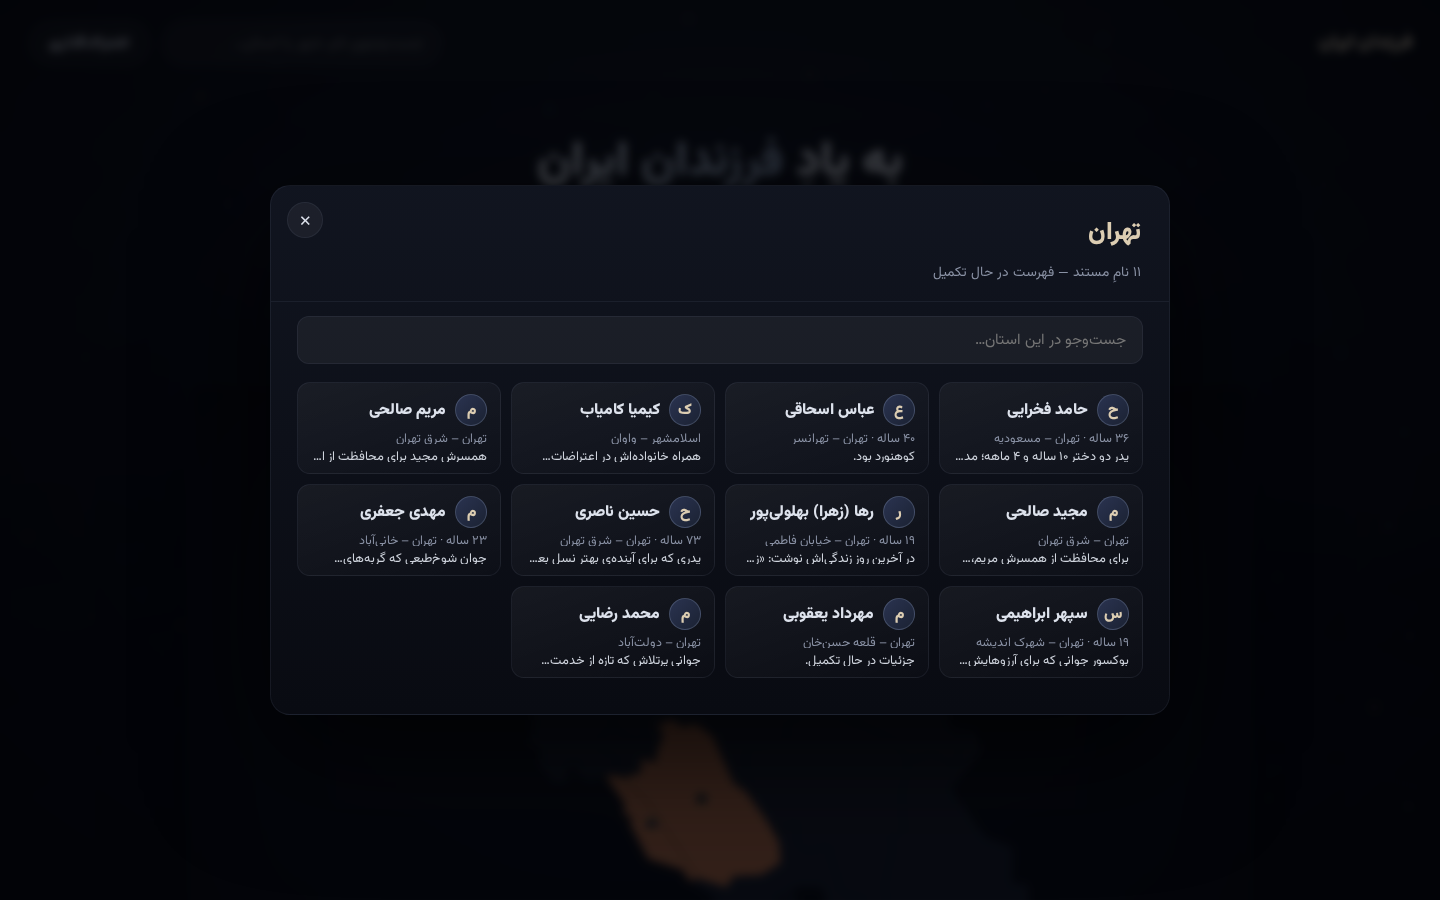
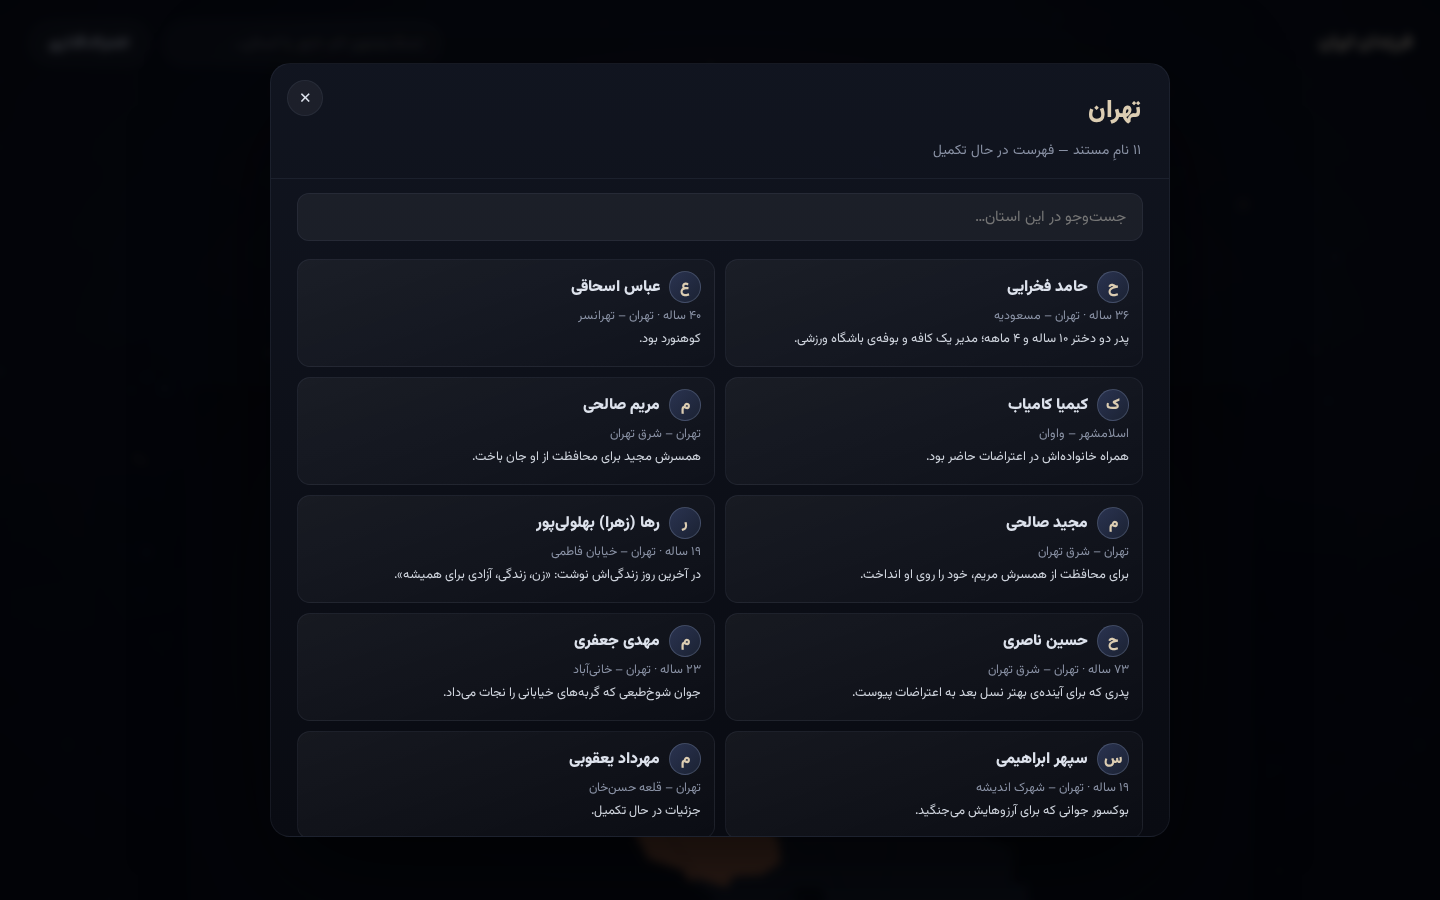
رنگ سرخ-سیاه «فرزندان ایران»، لیست سهستونه و پشتیبانی رسانه در یادنامه
- متن «فرزندان ایران» در هدر، تیتر و فوتر به گرادیان سرخِ تیره تا سیاه تغییر کرد
- فهرست استانها سه ستونه شد (کارتهای بزرگتر با توضیح دوخطی)
- پنجرهی یادنامه حالا عکس، ویدیو و صدا را پشتیبانی میکند (فیلدهای photo/video/audio)
- بازآزمایی کارایی با ۵۰۰۰ نام در یک استان: بدون بههمریختگی

diff --git a/js/app.js b/js/app.js
@@ -185,7 +185,14 @@
   /* =====================================================================
      پنجرهی استان — لیست مجازی
      ===================================================================== */
-  const CELL_H = 92, GAP = 10, ROW_H = CELL_H + GAP, MIN_COL = 190;
+  const CELL_H = 108, GAP = 10, ROW_H = CELL_H + GAP;
+
+  /* تعداد ستونها: ۳ در دسکتاپ، ۲ در تبلت، ۱ در موبایل */
+  function calcCols(width) {
+    if (width >= 880) return 3;
+    if (width >= 520) return 2;
+    return 1;
+  }
   let rafPending = false;
   let contentEl = null;
 
@@ -247,7 +254,7 @@
     contentEl.innerHTML = '';
 
     const innerW = contentEl.clientWidth;
-    const cols = Math.max(1, Math.floor((innerW + GAP) / (MIN_COL + GAP)));
+    const cols = calcCols(innerW);
     const colW = (innerW - (cols - 1) * GAP) / cols;
     const totalRows = Math.ceil(filtered.length / cols);
     contentEl.style.height = (totalRows * ROW_H) + 'px';
@@ -295,7 +302,7 @@
     const idx = filtered.findIndex((v) => v.id === id);
     if (idx < 0) return;
     const innerW = contentEl ? contentEl.clientWidth : (modalList.clientWidth - 52);
-    const cols = Math.max(1, Math.floor((innerW + GAP) / (MIN_COL + GAP)));
+    const cols = calcCols(innerW);
     const row = Math.floor(idx / cols);
     modalList.scrollTop = row * ROW_H;
     renderList();
@@ -336,6 +343,21 @@
     ].filter(Boolean).join(' · ');
     $('#detailNote').textContent = v.note || 'جزئیات در حال تکمیل.';
     $('#detailSrc').textContent = 'منبع: ' + (v.source || 'نامشخص');
+
+    /* رسانههای اختیاری: ویدیو، عکس یا صدا */
+    const media = $('#detailMedia');
+    let m = '';
+    if (v.video) {
+      m += '<video class="media-video" controls preload="metadata" src="' + esc(v.video) + '"></video>';
+    } else if (v.photo) {
+      m += '<img class="media-photo" src="' + esc(v.photo) + '" alt="' + esc(v.name) + '">';
+    }
+    if (v.audio) {
+      m += '<audio class="media-audio" controls preload="none" src="' + esc(v.audio) + '"></audio>';
+    }
+    if (m) { media.innerHTML = m; media.classList.remove('hidden'); }
+    else { media.innerHTML = ''; media.classList.add('hidden'); }
+
     detail.classList.add('open');
     detail.setAttribute('aria-hidden', 'false');
   }

diff --git a/css/style.css b/css/style.css
@@ -123,8 +123,9 @@ body {
 }
 .hero-title { font-size: clamp(1.7rem, 4.6vw, 3rem); font-weight: 900; margin: 6px 0 2px; letter-spacing: .3px; }
 .hero-title .accent {
-  background: linear-gradient(120deg, #eef2f8, #a9b9d0 55%, #7d90ad);
+  background: linear-gradient(115deg, #c0392b 0%, #7c151c 50%, #2a0608 100%);
   -webkit-background-clip: text; background-clip: text; color: transparent;
+  filter: drop-shadow(0 0 16px rgba(178, 28, 35, .3));
 }
 .hero-sub { color: var(--muted); margin: 4px 0 2px; font-size: 1.05rem; }
 .hero-date { color: var(--faint); margin: 2px 0 12px; font-size: .95rem; }
@@ -252,7 +253,7 @@ body {
 .v-meta { color: var(--muted); font-size: .78rem; width: 100%; white-space: nowrap; overflow: hidden; text-overflow: ellipsis; }
 .v-note {
   color: #cfd4dd; font-size: .8rem; width: 100%;
-  display: -webkit-box; -webkit-line-clamp: 1; -webkit-box-orient: vertical; overflow: hidden;
+  display: -webkit-box; -webkit-line-clamp: 2; -webkit-box-orient: vertical; overflow: hidden;
 }
 
 .list-empty { text-align: center; color: var(--muted); padding: 50px 10px; }
@@ -284,6 +285,12 @@ body {
 .detail-note { color: #d3d8e1; line-height: 2.1; font-size: .98rem; margin: 0 0 18px; }
 .detail-src { display: inline-block; font-size: .76rem; color: var(--faint); background: rgba(255,255,255,.05); border-radius: 999px; padding: 4px 14px; }
 .detail-tribute { margin: 20px 0 0; color: var(--gold); font-size: .82rem; letter-spacing: .3px; }
+
+/* ============ رسانه در یادنامه (عکس / ویدیو / صدا) ============ */
+.detail-media { margin: 2px 0 14px; display: flex; flex-direction: column; align-items: center; gap: 10px; }
+.media-photo { max-width: 100%; max-height: 260px; border-radius: 14px; border: 1px solid var(--line); object-fit: cover; }
+.media-video { max-width: 100%; max-height: 280px; border-radius: 14px; border: 1px solid var(--line); background: #000; }
+.media-audio { width: 100%; }
 
 /* ============ footer ============ */
 .footer {

diff --git a/data/victims.js b/data/victims.js
@@ -15,7 +15,10 @@
  *    dateFa:    "۱۴۰۴/۱۰/۱۹",      // تاریخ شمسی (اختیاری)
  *    dateEn:    "2026-01-09",      // تاریخ میلادی (اختیاری)
  *    note:      "یک جمله دربارهی او", // شرح کوتاه و محترمانه
- *    source:    "بیبیسی فارسی"    // منبع مستند
+ *    source:    "بیبیسی فارسی",  // منبع مستند
+ *    photo:     "https://.../a.jpg", // (اختیاری) عکسِ او
+ *    video:     "https://.../a.mp4", // (اختیاری) ویدیو/خاطرهی او
+ *    audio:     "https://.../a.mp3"  // (اختیاری) صدا/روایت خانواده
  *  }
  *
  *  کد استانها:

diff --git a/index.html b/index.html
@@ -75,6 +75,7 @@
     <div class="detail-avatar" id="detailAvatar"></div>
     <h3 class="detail-name" id="detailName"></h3>
     <div class="detail-meta" id="detailMeta"></div>
+    <div id="detailMedia" class="detail-media hidden"></div>
     <div class="detail-divider"></div>
     <p class="detail-note" id="detailNote"></p>
     <div class="detail-src" id="detailSrc"></div>

diff --git a/README.md b/README.md
@@ -12,7 +12,7 @@
 - 🪟 **پنجرهی استان**: با کلیک روی هر استان باز میشود و فهرست نامها را نشان میدهد
 - ⚡ **لیست مجازی (Virtualized)**: حتی با چند هزار نام در یک استان، فقط بخشِ قابلمشاهده رندر میشود و اسکرول کاملاً روان میماند
 - 🔍 **جستوجو** در کل سایت (نام، شهر، استان) + جستوجو داخل هر استان
-- 🕊 **پنجرهی یادنامه**: با کلیک روی هر نام، جزئیات کامل (سن، شهر، تاریخ، شرح و منبع) نمایش داده میشود
+- 🕊 **پنجرهی یادنامه**: با کلیک روی هر نام، جزئیات کامل (سن، شهر، تاریخ، شرح و منبع) نمایش داده میشود — با پشتیبانی از **عکس، ویدیو و صدا** برای هر نام
 - 🌙 حالوهوای شبِ سوگوار: نورپردازی سرد، مهِ آرام و ذرات نورِ کمجان
 - 📱 کاملاً واکنشگرا (موبایل و دسکتاپ)
 - 📦 **بدون هیچ وابستگی به CDN خارجی** — فونتها محلی هستند، پس در ایران هم بدون تحریم باز میشود
@@ -45,9 +45,14 @@ farzand-iran/
   dateFa: "۱۴۰۴/۱۰/۱۹",        // تاریخ شمسی (اختیاری)
   dateEn: "2026-01-09",       // تاریخ میلادی (اختیاری)
   note: "یک جمله دربارهی او", // شرح کوتاه
-  source: "بیبیسی فارسی"     // منبع مستند
+  source: "بیبیسی فارسی",   // منبع مستند
+  photo: "https://.../a.jpg", // (اختیاری) عکس
+  video: "https://.../a.mp4", // (اختیاری) ویدیو
+  audio: "https://.../a.mp3"  // (اختیاری) صدا
 }
 ```
+
+فیلدهای `photo`، `video` و `audio` اختیاریاند. اگر `video` باشد در پنجرهی یادنامه یک پخشکنندهی ویدیو، اگر `photo` باشد عکس، و اگر `audio` باشد پخشکنندهی صدا نمایش داده میشود (فایل صدا میتواند همزمان با عکس هم باشد).
 
 ### کد استانها
 
